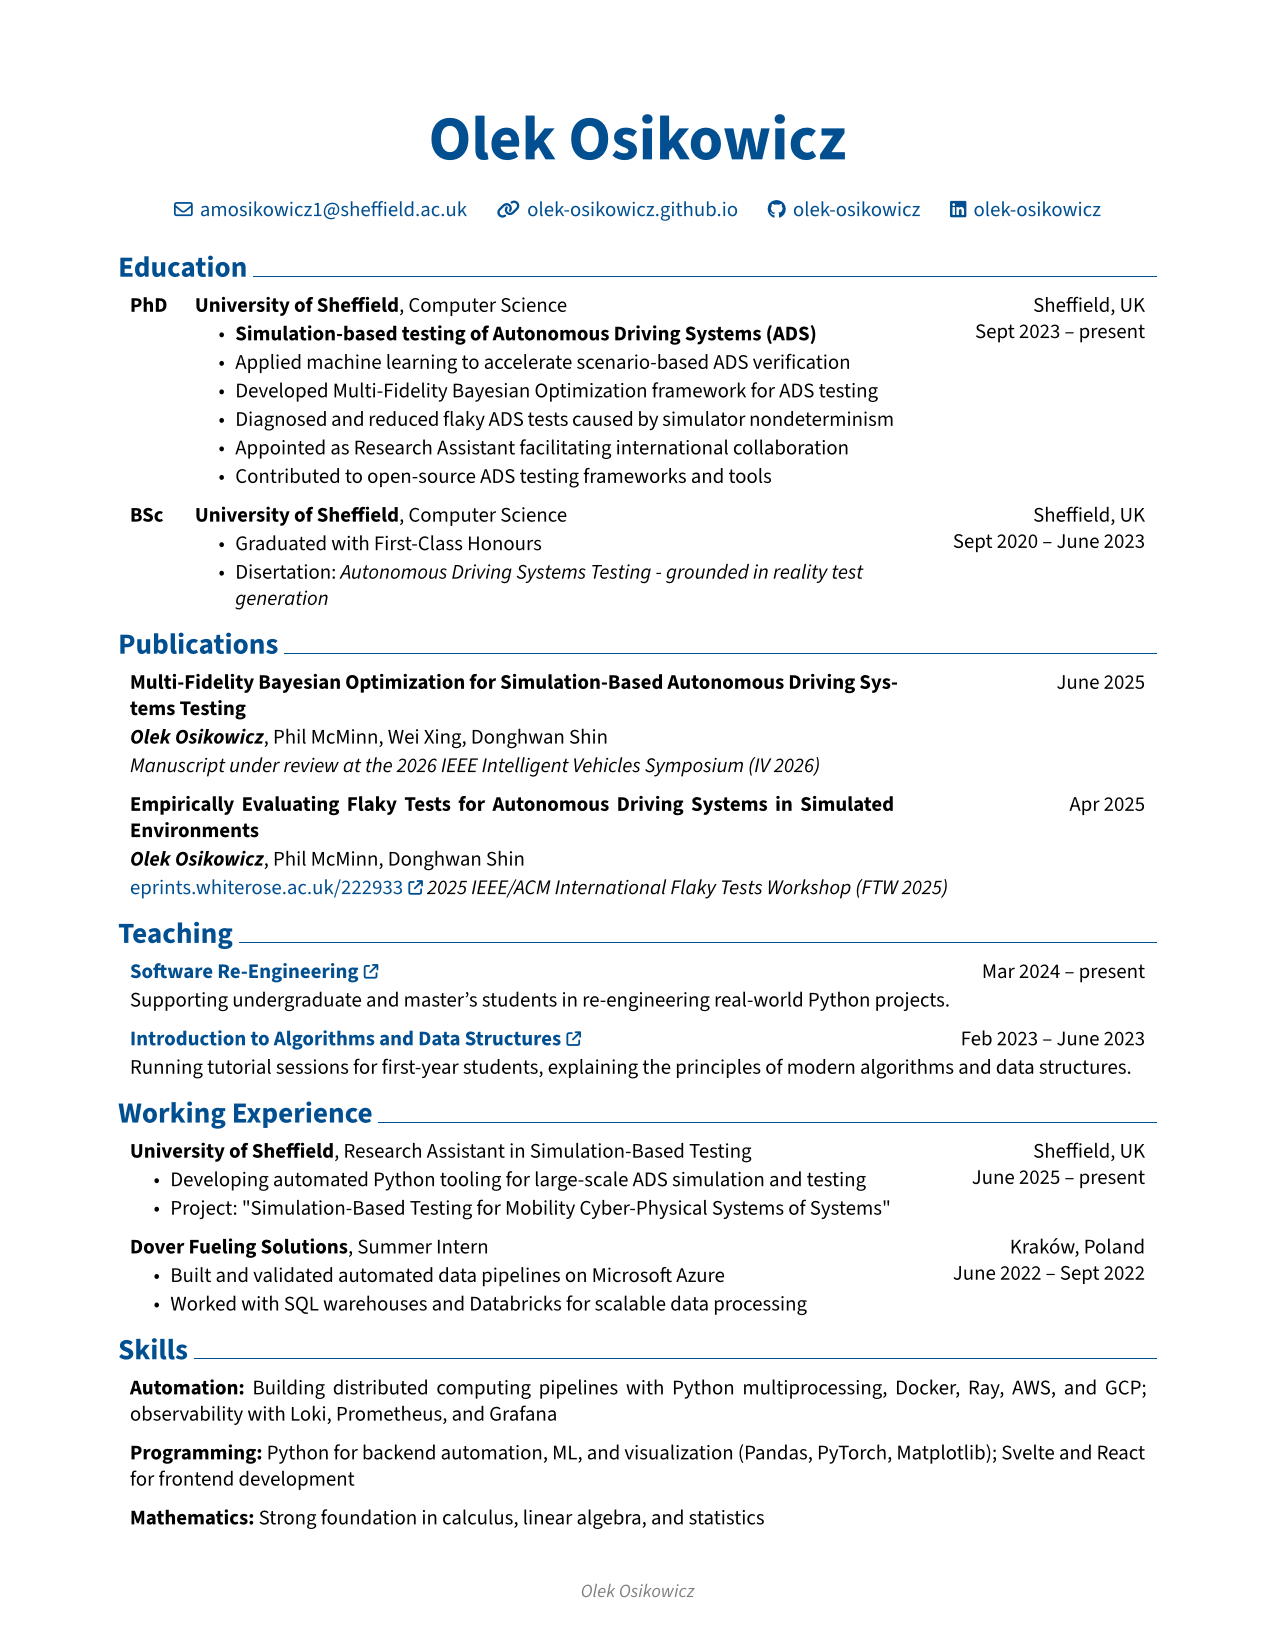
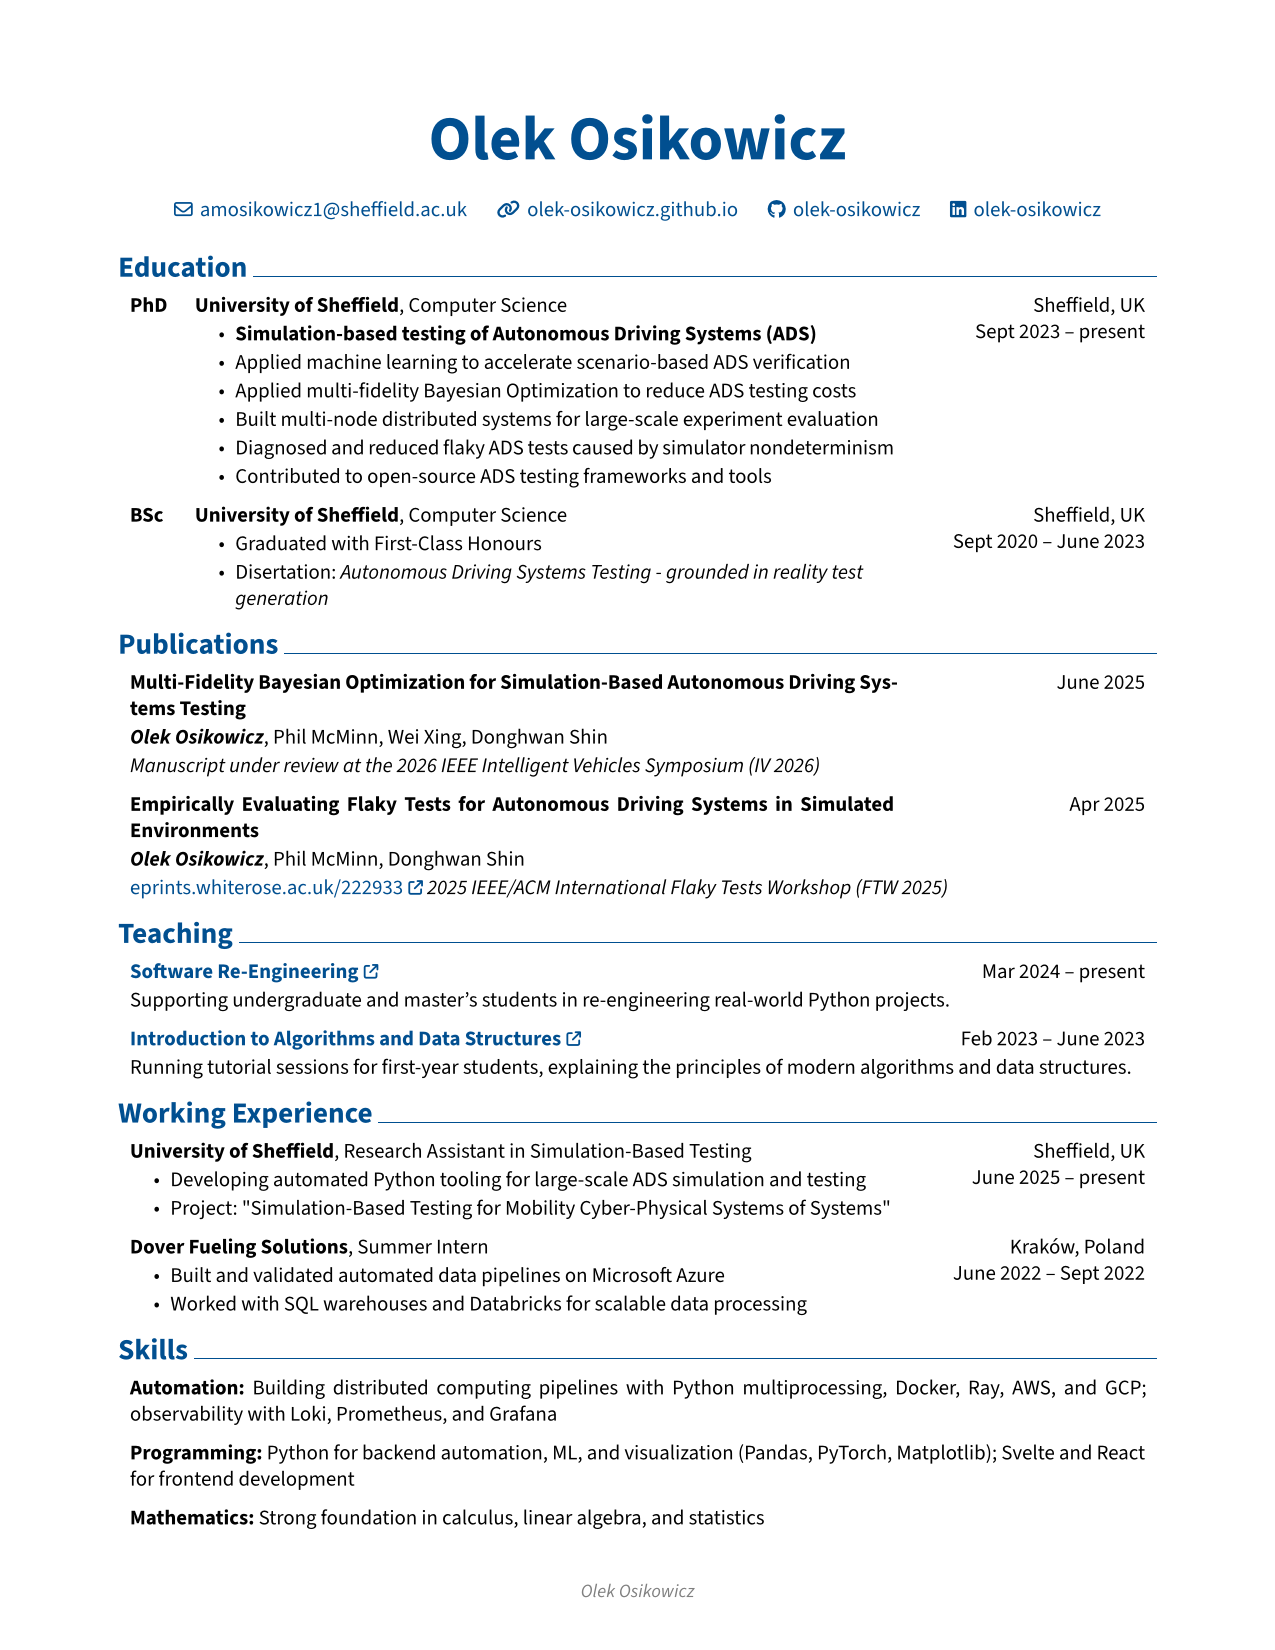
Iterate on PhD highlights

Changed region(s): [[0.1835, 0.2164, 0.7035, 0.2782]]

diff --git a/rendercv_output/Olek_Osikowicz_CV.html b/rendercv_output/Olek_Osikowicz_CV.html
@@ -53,9 +53,9 @@
         <li>Sheffield, UK</li>
         <li><strong>Simulation-based testing of Autonomous Driving Systems (ADS)</strong></li>
         <li>Applied machine learning to accelerate scenario-based ADS verification</li>
-        <li>Developed Multi-Fidelity Bayesian Optimization framework for ADS testing</li>
+        <li>Applied multi-fidelity Bayesian Optimization to reduce ADS testing costs</li>
+        <li>Built multi-node distributed systems for large-scale experiment evaluation</li>
         <li>Diagnosed and reduced flaky ADS tests caused by simulator nondeterminism</li>
-        <li>Appointed as Research Assistant facilitating international collaboration</li>
         <li>Contributed to open-source ADS testing frameworks and tools</li>
         </ul>
         <h2>University of Sheffield, BSc in Computer Science</h2>

diff --git a/rendercv_output/Olek_Osikowicz_CV.md b/rendercv_output/Olek_Osikowicz_CV.md
@@ -14,9 +14,9 @@
 - Sheffield, UK
 - **Simulation-based testing of Autonomous Driving Systems (ADS)**
 - Applied machine learning to accelerate scenario-based ADS verification
-- Developed Multi-Fidelity Bayesian Optimization framework for ADS testing
+- Applied multi-fidelity Bayesian Optimization to reduce ADS testing costs
+- Built multi-node distributed systems for large-scale experiment evaluation
 - Diagnosed and reduced flaky ADS tests caused by simulator nondeterminism
-- Appointed as Research Assistant facilitating international collaboration
 - Contributed to open-source ADS testing frameworks and tools
 
 ## University of Sheffield, BSc in Computer Science
